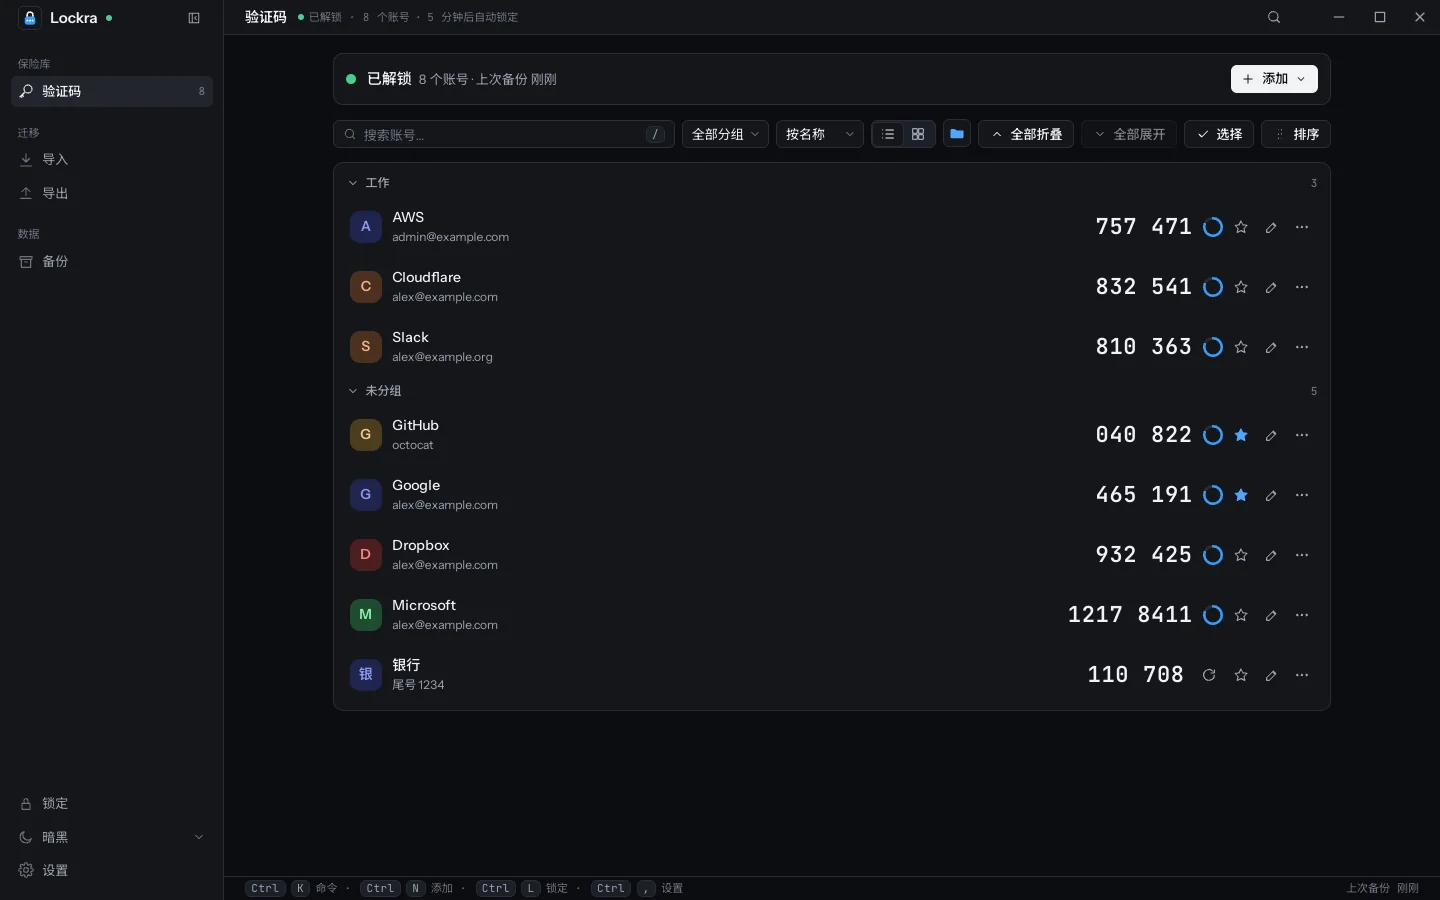
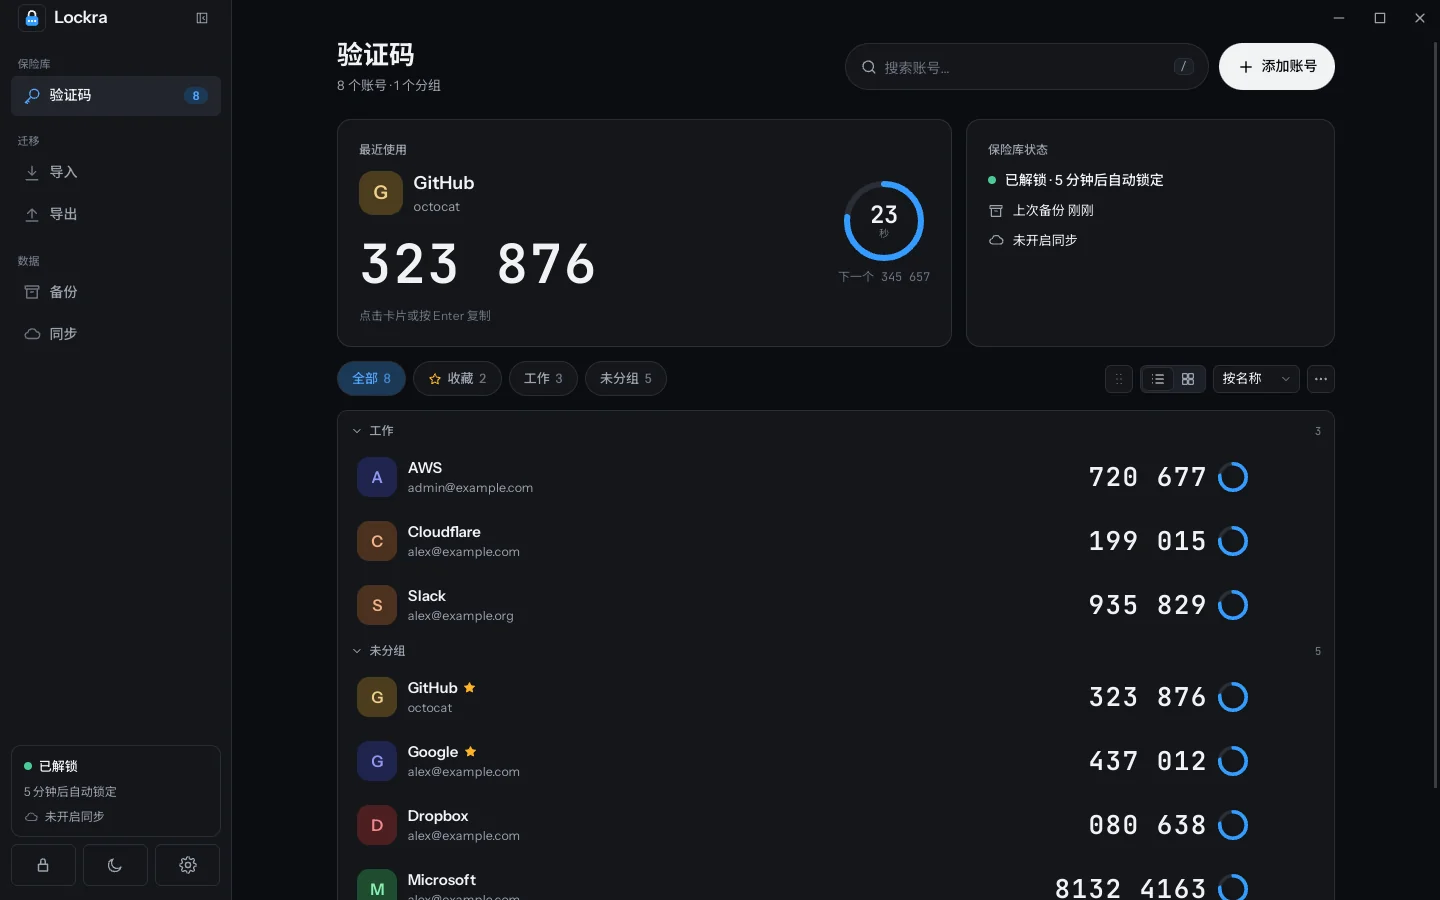
docs(site): 0.8.8 已发布，所有主题改用澄空的页面布局
- 「验证码」页（中英文）：「页面布局」一节标为自 0.8.8 版起提供；「复制验证码」「查找账号」「分组与收藏」「按分组折叠」「操作按钮与右键菜单」「批量选择」「调整顺序」按新的位置描述筛选按钮、⋯ 菜单和悬停显示的按钮。
- 文档站截图按 0.8.8 重新拍摄（验证码、备份、导入，浅色与深色）。

在 v0.8.8 发布之后合并。

diff --git a/docs/site/zh/accounts/codes.md b/docs/site/zh/accounts/codes.md
@@ -2,11 +2,11 @@
 
 本页介绍验证码页：读取和复制验证码、查找账号、整理列表，以及选择页面的外观。
 
-<ScreenFigure src="/screens/codes-zh-light.webp" dark="/screens/codes-zh-dark.webp" width="1440" height="900" alt="验证码页，包含账号列表、搜索框和排序菜单。" />
+<ScreenFigure src="/screens/codes-zh-light.webp" dark="/screens/codes-zh-dark.webp" width="1440" height="900" alt="验证码页：顶部是标题、搜索框和「添加账号」，下面是「最近使用」和「保险库状态」两张卡片、筛选按钮和账号列表。" />
 
-## 新的页面布局
+## 页面布局
 
-<StatusTag status="building" />
+<StatusTag status="available" /> 自 0.8.8 版起提供。
 
 页面顶部是标题和一行概况（账号数、分组数，开启同步时还有同步状态），右侧是搜索框和「添加账号」。
 
@@ -17,7 +17,7 @@
 
 搜索、批量选择或调整顺序时，这两张卡片暂时隐藏。
 
-卡片下方是筛选按钮和列表工具。筛选按钮依次为「全部」「收藏」、每个分组和「未分组」，按钮上显示账号数，取代搜索框旁的分组菜单。右侧依次是「排序」（手柄图标）、列表与卡片切换、排序菜单和 ⋯ 菜单；「选择」「按分组显示」「全部折叠」和「全部展开」移到 ⋯ 菜单中。每行的星形按钮和 ⋯ 在鼠标指针移到该行上或键盘焦点进入该行时才显示，「编辑…」在 ⋯ 菜单中；收藏的账号名称后显示一颗星。复制后的提示会写明是哪个账号的验证码。
+卡片下方是筛选按钮和列表工具。筛选按钮依次为「全部」「收藏」、每个分组和「未分组」，按钮上显示账号数。右侧依次是「排序」（手柄图标）、列表与卡片切换、排序菜单和 ⋯ 菜单；⋯ 菜单中有「选择」「按分组显示」「全部折叠」和「全部展开」。
 
 侧栏底部的卡片显示保险库是否已解锁、多久后自动锁定以及同步状态，下方是「锁定」、主题和「设置」三个按钮。主题按钮每点一次切换到下一个主题，全部主题在「设置 › 外观」中选择。侧栏中的「同步」打开「设置 › 同步」。所有主题使用同一种布局，主题只改变颜色和材质。
 
@@ -31,25 +31,25 @@
 
 ## 复制验证码
 
-点击一行，或用方向键选中后按 Enter。提示信息会确认已复制，并说明何时清空剪贴板：默认 30 秒后，而且只在剪贴板中仍是这个验证码时清空，之后复制的其他内容不受影响。可以在「设置 › 安全」中更改时间或关闭自动清空。
+点击一行，或用方向键选中后按 Enter。屏幕下方的提示会写明复制的是哪个账号的验证码，并说明何时清空剪贴板：默认 30 秒后，而且只在剪贴板中仍是这个验证码时清空，之后复制的其他内容不受影响。可以在「设置 › 安全」中更改时间或关闭自动清空。
 
 在 Windows 上，复制的验证码不会进入剪贴板历史和云剪贴板；在 Linux 和 macOS 上，验证码会被标记为不进入剪贴板历史，前提是剪贴板管理器支持这个标记。
 
 ## 查找账号
 
-在搜索框中输入，或按 `/`、`Ctrl F` 跳转到搜索框。列表只保留服务名称、账号或分组中包含该文字的账号。按 Enter 复制第一个匹配项的验证码，按向下方向键进入列表，按 Esc 清除搜索。
+在页面顶部的搜索框中输入，或按 `/`、`Ctrl F` 跳转到搜索框。列表只保留服务名称、账号或分组中包含该文字的账号。按 Enter 复制第一个匹配项的验证码，按向下方向键进入列表，按 Esc 清除搜索。
 
 在应用的任何位置按 `Ctrl K` 都可以打开命令面板。输入名称的一部分后按 Enter，即可复制该账号的验证码。
 
 ## 分组与收藏
 
-在「编辑…」（每行的 ⋯ 菜单）中为账号设置分组，例如「工作」。有分组时，搜索框旁会出现一个菜单，可以只显示某一个分组。同一菜单中的「收藏」会让账号始终排在最前。
+在「编辑…」（每行的 ⋯ 菜单）中为账号设置分组，例如「工作」。列表上方的筛选按钮可以只显示收藏的账号、某一个分组，或不在任何分组中的账号（「未分组」），「全部」恢复显示所有账号。每行的星形按钮或 ⋯ 菜单中的「收藏」会让账号始终排在最前，收藏的账号名称后显示一颗星。
 
 ## 按分组折叠
 
 <StatusTag status="available" /> 自 0.5.0 版起提供。
 
-账号设置了分组时，列表按分组名称分段显示，其余账号归入「未分组」。点击分组的标题即可折叠或展开该分组；排序菜单旁的「全部折叠」和「全部展开」可以一次折叠或展开所有分组。搜索时，折叠的分组中的匹配项也会显示。哪些分组处于折叠状态保存在保险库中，只对这台设备有效。排序菜单旁的文件夹按钮（「按分组显示」）可以关闭分段，改为显示单个列表。
+账号设置了分组时，列表按分组名称分段显示，其余账号归入「未分组」。点击分组的标题即可折叠或展开该分组；列表右上角 ⋯ 菜单中的「全部折叠」和「全部展开」可以一次折叠或展开所有分组。搜索时，折叠的分组中的匹配项也会显示。哪些分组处于折叠状态保存在保险库中，只对这台设备有效。⋯ 菜单中的「按分组显示」可以关闭分段，改为显示单个列表。
 
 ## 颜色与头像文字
 
@@ -61,13 +61,13 @@
 
 <StatusTag status="available" /> 自 0.5.0 版起提供。
 
-每行 ⋯ 按钮的左侧有星形按钮，用于收藏或取消收藏账号；铅笔按钮用于打开「编辑…」。在某一行上点击右键，或选中某一行后按菜单键或 Shift F10，会在原处打开与 ⋯ 相同的菜单。
+每行 ⋯ 按钮的左侧有星形按钮，用于收藏或取消收藏账号。使用鼠标时，这两个按钮在指针移到该行上或键盘焦点进入该行时才显示；在手机上，⋯ 始终显示。「编辑…」在 ⋯ 菜单中。在某一行上点击右键，或选中某一行后按菜单键或 Shift F10，会在原处打开与 ⋯ 相同的菜单。
 
 ## 批量选择
 
 <StatusTag status="available" /> 自 0.6.0 版起提供。
 
-点击排序菜单旁的「选择」，或在账号的菜单中选择「选择」，即可勾选账号：点击某一行或在该行上按空格键；勾选分组标题前的方框，选中该分组的全部账号；点击「全选」，选中当前搜索和分组菜单显示的全部账号。之后点击「移到分组…」，一次把勾选的账号移到同一个分组：输入或选择分组名称，留空则移出分组。点击「完成」或按 Esc 键退出，不做任何更改。
+在列表右上角的 ⋯ 菜单中选择「选择」，或在账号的菜单中选择「选择」，即可勾选账号：点击某一行或在该行上按空格键；勾选分组标题前的方框，选中该分组的全部账号；点击「全选」，选中当前搜索和筛选按钮显示的全部账号。之后点击「移到分组…」，一次把勾选的账号移到同一个分组：输入或选择分组名称，留空则移出分组。点击「完成」或按 Esc 键退出，不做任何更改。
 
 ## 选择分组
 
@@ -81,11 +81,11 @@
 
 <StatusTag status="available" /> 自 0.8.6 版起提供。
 
-点击排序菜单旁的「排序」，每个分组标题和每一行的右侧会出现手柄。按住手柄上下拖动，或聚焦手柄后按上下方向键，即可调整账号的顺序和分组的顺序；点击「完成」结束。调整期间，搜索框和分组菜单暂不可用。
+点击列表工具中的「排序」（手柄图标），每个分组标题和每一行的右侧会出现手柄。按住手柄上下拖动，或聚焦手柄后按上下方向键，即可调整账号的顺序和分组的顺序；点击「完成」结束。调整期间，搜索框和筛选按钮暂不可用。
 
 调整账号的顺序后，排序菜单变为「手动」，之后添加的账号排在最后。收藏的账号仍排在最前，「未分组」始终排在最后。顺序保存在保险库中，只对这台设备有效，不会同步到其他设备。
 
-在手机上，点按验证码页顶部的「排序」按钮，再按住每行右侧的手柄上下拖动。
+在手机上，点按筛选按钮右侧的「排序」按钮，再按住每行右侧的手柄上下拖动。
 
 ## 卡片视图
 

diff --git a/docs/site/accounts/codes.md b/docs/site/accounts/codes.md
@@ -3,11 +3,11 @@
 This page explains the codes page: reading and copying codes, finding an account, arranging the
 list, and choosing how the page looks.
 
-<ScreenFigure src="/screens/codes-en-light.webp" dark="/screens/codes-en-dark.webp" width="1440" height="900" alt="The codes page with the account list, the search field and the sort menu." />
+<ScreenFigure src="/screens/codes-en-light.webp" dark="/screens/codes-en-dark.webp" width="1440" height="900" alt="The codes page: the title, the search field and Add account at the top, then the Recently used and Vault cards, the filters and the account list." />
 
-## The new layout
+## The page
 
-<StatusTag status="building" />
+<StatusTag status="available" /> Available from version 0.8.8.
 
 The page starts with its title and a line of facts (how many accounts and groups, and with sync on,
 how it stands), with the search field and **Add account** on the right.
@@ -22,11 +22,9 @@ Two cards follow:
 While you search, select or reorder, the two cards step aside.
 
 Under them come the filters and the list's tools. The filters are **All**, **Pinned**, each group
-and **No group**, each with its number of accounts; they replace the group menu next to the search
-field. On the right: **Reorder** (the handle), the list or cards switch, the sort menu and a ⋯ menu,
-where **Select**, **Show groups**, **Collapse all** and **Expand all** move. A row's star and ⋯ show
-while the pointer is on the row or the keyboard focus is in it, and **Edit…** is in the ⋯ menu; a
-star follows the name of a pinned account. The message after a copy names the account.
+and **No group**, each with its number of accounts. On the right: **Reorder** (the handle), the list
+or cards switch, the sort menu and a ⋯ menu with **Select**, **Show groups**, **Collapse all** and
+**Expand all**.
 
 At the foot of the sidebar, a card says whether the vault is unlocked, when it locks by itself and
 how the sync stands, over three buttons: **Lock**, the theme and **Settings**. The theme button
@@ -52,8 +50,8 @@ only when you ask for the next one.
 
 ## Copying a code
 
-Click a row, or select it with the arrow keys and press Enter. A message confirms the copy and says
-when the clipboard will be cleared: after 30 seconds by default, and only if it still holds the
+Click a row, or select it with the arrow keys and press Enter. A message at the bottom names the
+account whose code was copied and says when the clipboard will be cleared: after 30 seconds by default, and only if it still holds the
 code, so anything you copied afterwards is left alone. The time can be changed, or clearing turned
 off, in **Settings › Security**.
 
@@ -62,7 +60,7 @@ macOS it is marked to stay out of clipboard history where the clipboard manager 
 
 ## Finding an account
 
-Type in the search field, or press `/` or `Ctrl F` to go to it. The list keeps the accounts whose
+Type in the search field at the top of the page, or press `/` or `Ctrl F` to go to it. The list keeps the accounts whose
 service, account or group contains the text. Enter copies the first match, the down arrow moves into
 the list, and Esc clears the search.
 
@@ -71,9 +69,10 @@ copy that account's code.
 
 ## Groups and pinned accounts
 
-Give accounts a group, such as "Work", in **Edit…** (the ⋯ menu of a row). When groups exist, a
-menu next to the search field shows one group at a time. **Pin to top**, in the same menu, keeps an
-account first.
+Give accounts a group, such as "Work", in **Edit…** (the ⋯ menu of a row). The filters above the
+list show only the pinned accounts, one group, or the accounts in none (**No group**); **All** shows
+every account again. The star of a row, or **Pin to top** in its ⋯ menu, keeps an account first, and
+a star follows its name.
 
 ## Folding groups
 
@@ -81,9 +80,9 @@ account first.
 
 When accounts have groups, the list shows a section for each group, by name, then **No group** for
 the others. Click a section's heading to fold or unfold it; **Collapse all** and **Expand all**,
-beside the sort menu, do it for every section at once. A search shows what it finds in folded
-sections too. Which sections are folded is kept in the vault, on this device only. The folder button
-beside the sort menu (**Show groups**) turns the sections off and shows a single list.
+in the ⋯ menu at the top right of the list, do it for every section at once. A search shows what it
+finds in folded sections too. Which sections are folded is kept in the vault, on this device only.
+**Show groups**, in the same menu, turns the sections off and shows a single list.
 
 ## Colours and avatar text
 
@@ -99,17 +98,18 @@ stay in backups.
 
 <StatusTag status="available" /> Available from version 0.5.0.
 
-Beside each row's ⋯ button, a star pins the account to the top (or unpins it) and a pencil opens
-**Edit…**. Right-click a row, or press the context-menu key or Shift F10 on a selected row, to open
-the same menu as ⋯ where you are.
+Beside each row's ⋯ button, a star pins the account to the top (or unpins it). With a mouse, both
+show while the pointer is on the row or the keyboard focus is in it; on the phone, ⋯ is always
+there. **Edit…** is in the ⋯ menu. Right-click a row, or press the context-menu key or Shift F10 on
+a selected row, to open the same menu as ⋯ where you are.
 
 ## Selecting several accounts
 
 <StatusTag status="available" /> Available from version 0.6.0.
 
-Click **Select** beside the sort menu, or choose **Select** in an account's menu, to tick accounts:
-click a row or press Space on it, tick a section's box for all of its accounts, or click **Select
-all** for every account the search and the group menu show. **Move to group…** then puts the ticked
+Choose **Select** in the ⋯ menu at the top right of the list, or in an account's menu, to tick
+accounts: click a row or press Space on it, tick a section's box for all of its accounts, or click
+**Select all** for every account the search and the filters show. **Move to group…** then puts the ticked
 accounts in one group in a single step: type a group or pick one, or leave it empty to take them out
 of their groups. **Done**, or Esc, leaves without changing anything.
 
@@ -130,17 +130,17 @@ that sheet, not the page under it.
 
 <StatusTag status="available" /> Available from version 0.8.6.
 
-Click **Reorder** beside the sort menu: a handle appears on the right of each group's heading and of
-each row. Drag a handle up or down, or focus it and press the up and down arrow keys, to change the
-order of the accounts and of the groups; **Done** ends it. While you reorder, the search field and
-the group menu are off.
+Click **Reorder** (the handle among the list's tools): a handle appears on the right of each group's
+heading and of each row. Drag a handle up or down, or focus it and press the up and down arrow keys,
+to change the order of the accounts and of the groups; **Done** ends it. While you reorder, the
+search field and the filters are off.
 
 Once the accounts are reordered, the sort menu reads **Manual**, and accounts added later go to the
 end. Pinned accounts still come first and **No group** stays last. The order is kept in the vault,
 on this device only: it does not sync to your other devices.
 
-On the phone, tap the **Reorder** button at the top of the codes page, then drag the handle on the
-right of a row up or down.
+On the phone, tap the **Reorder** button after the filters, then drag the handle on the right of a
+row up or down.
 
 ## Cards
 
